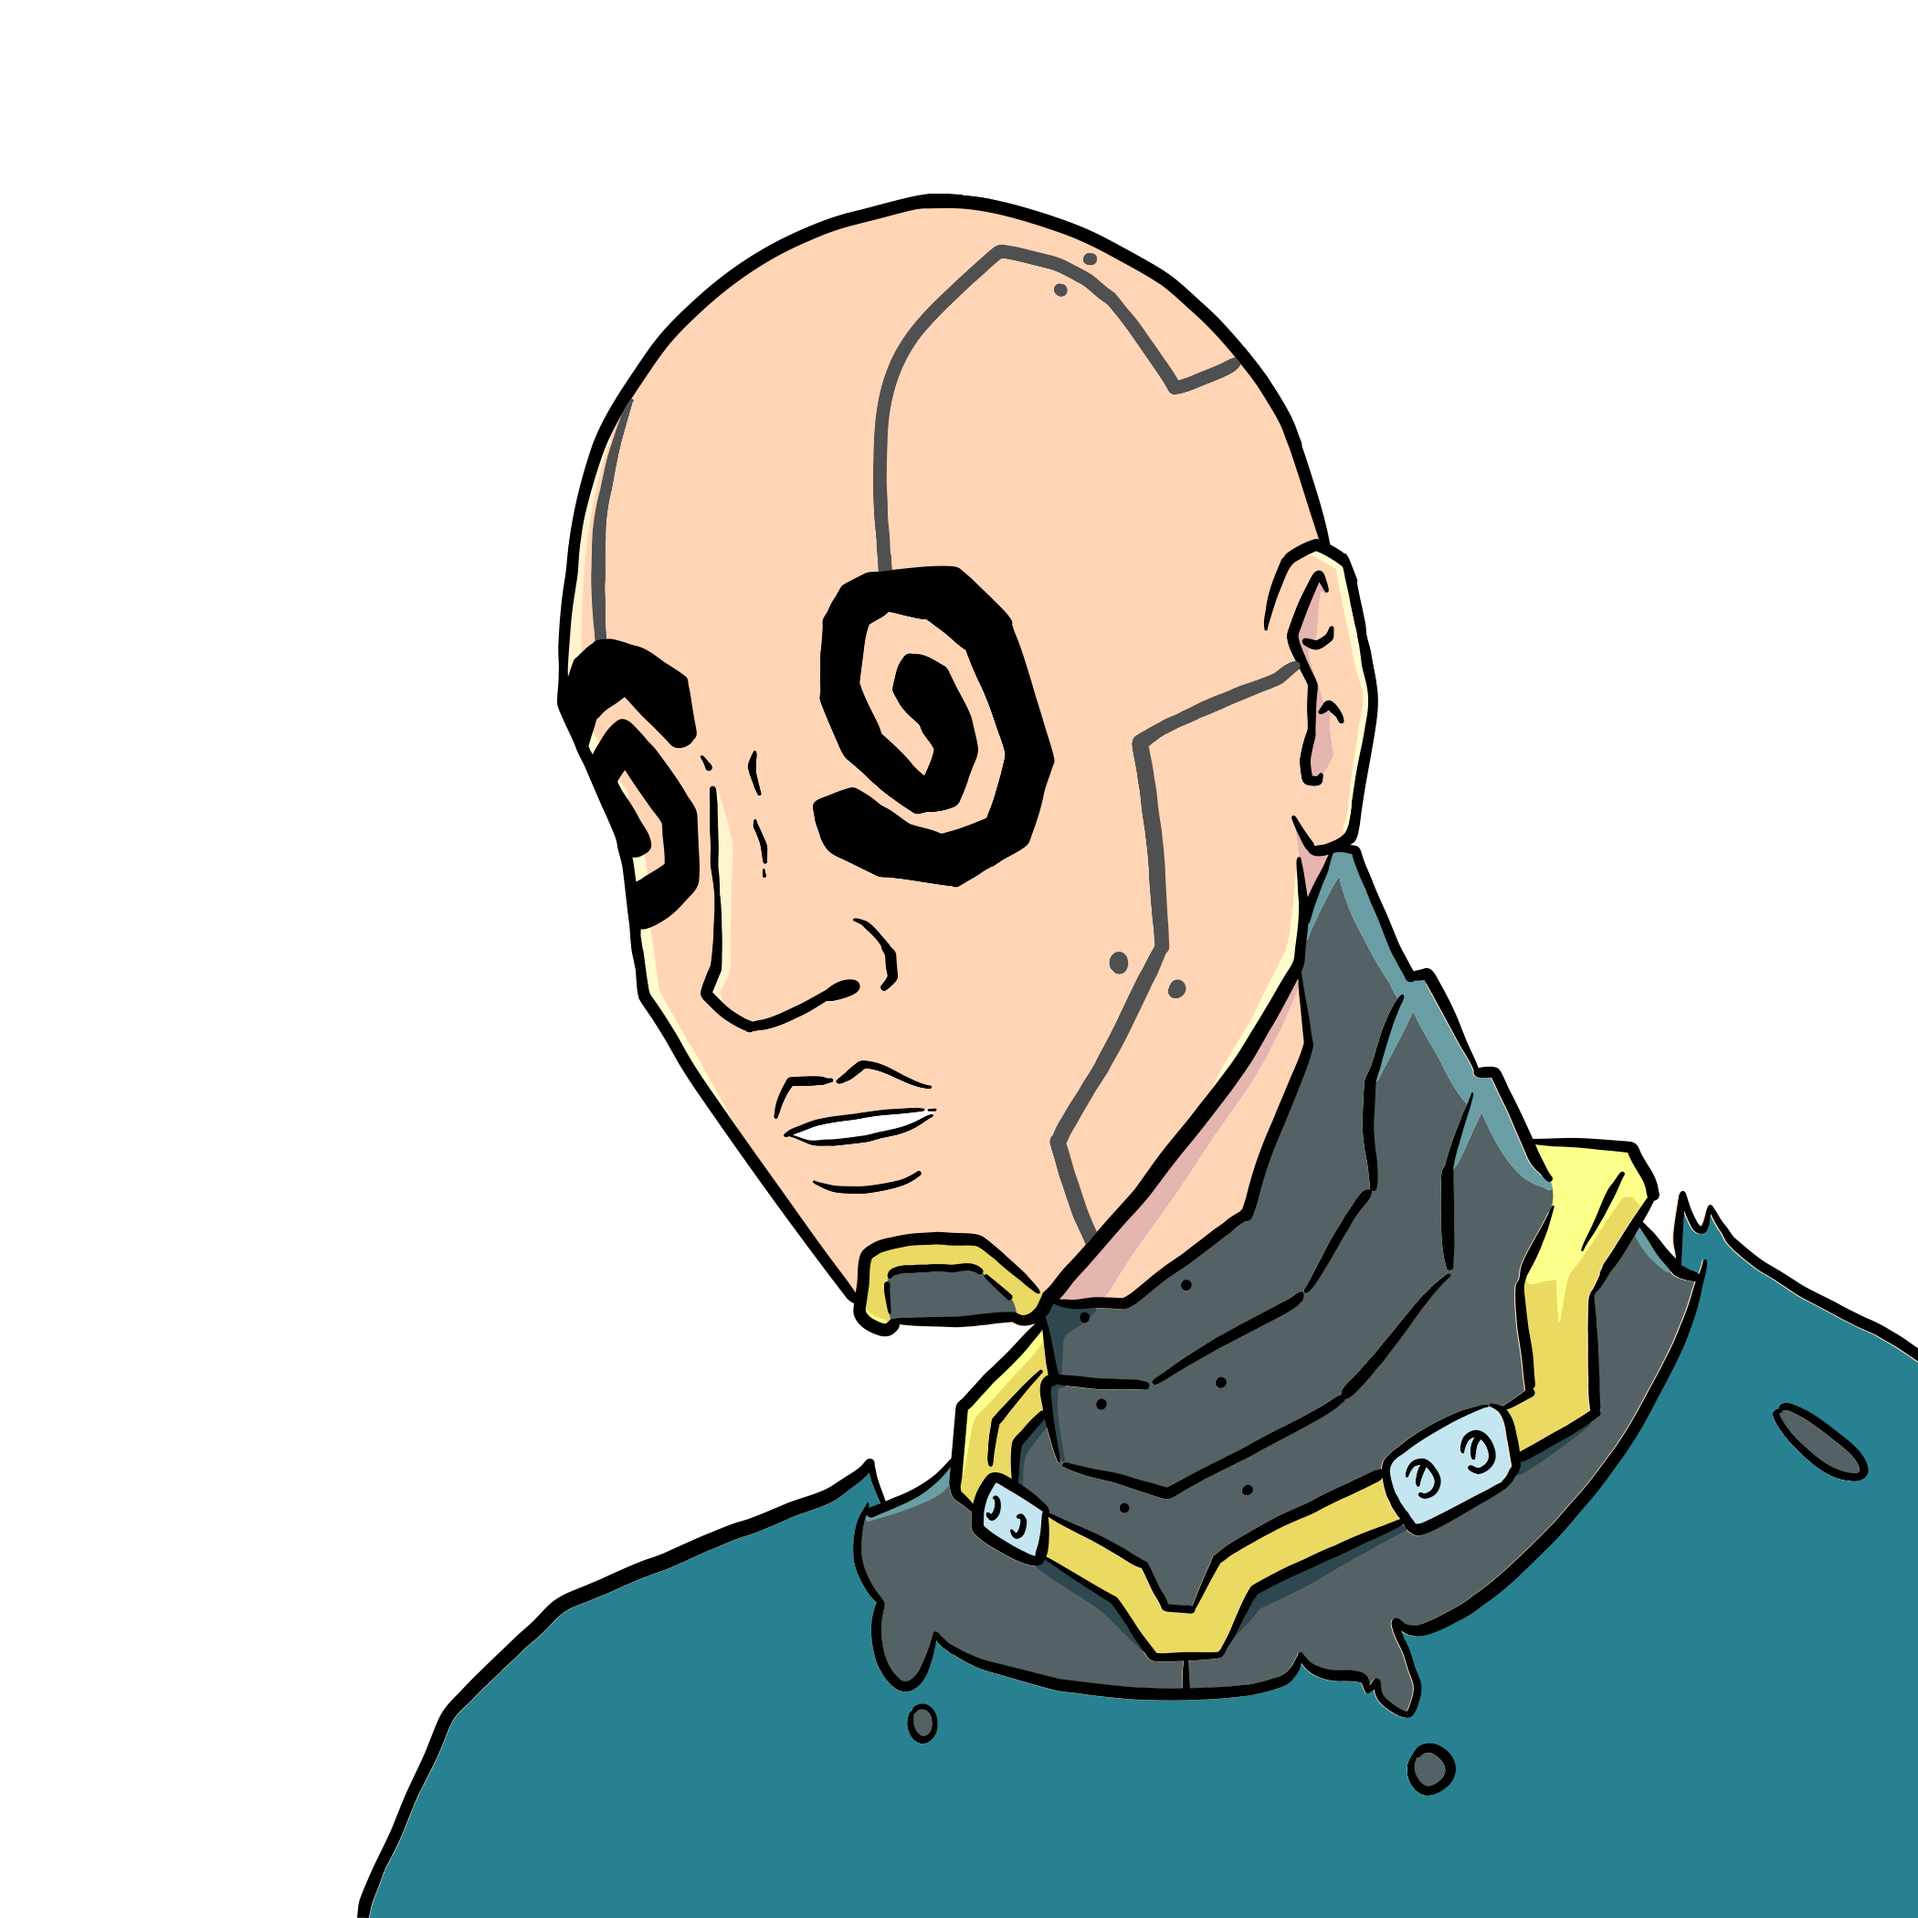
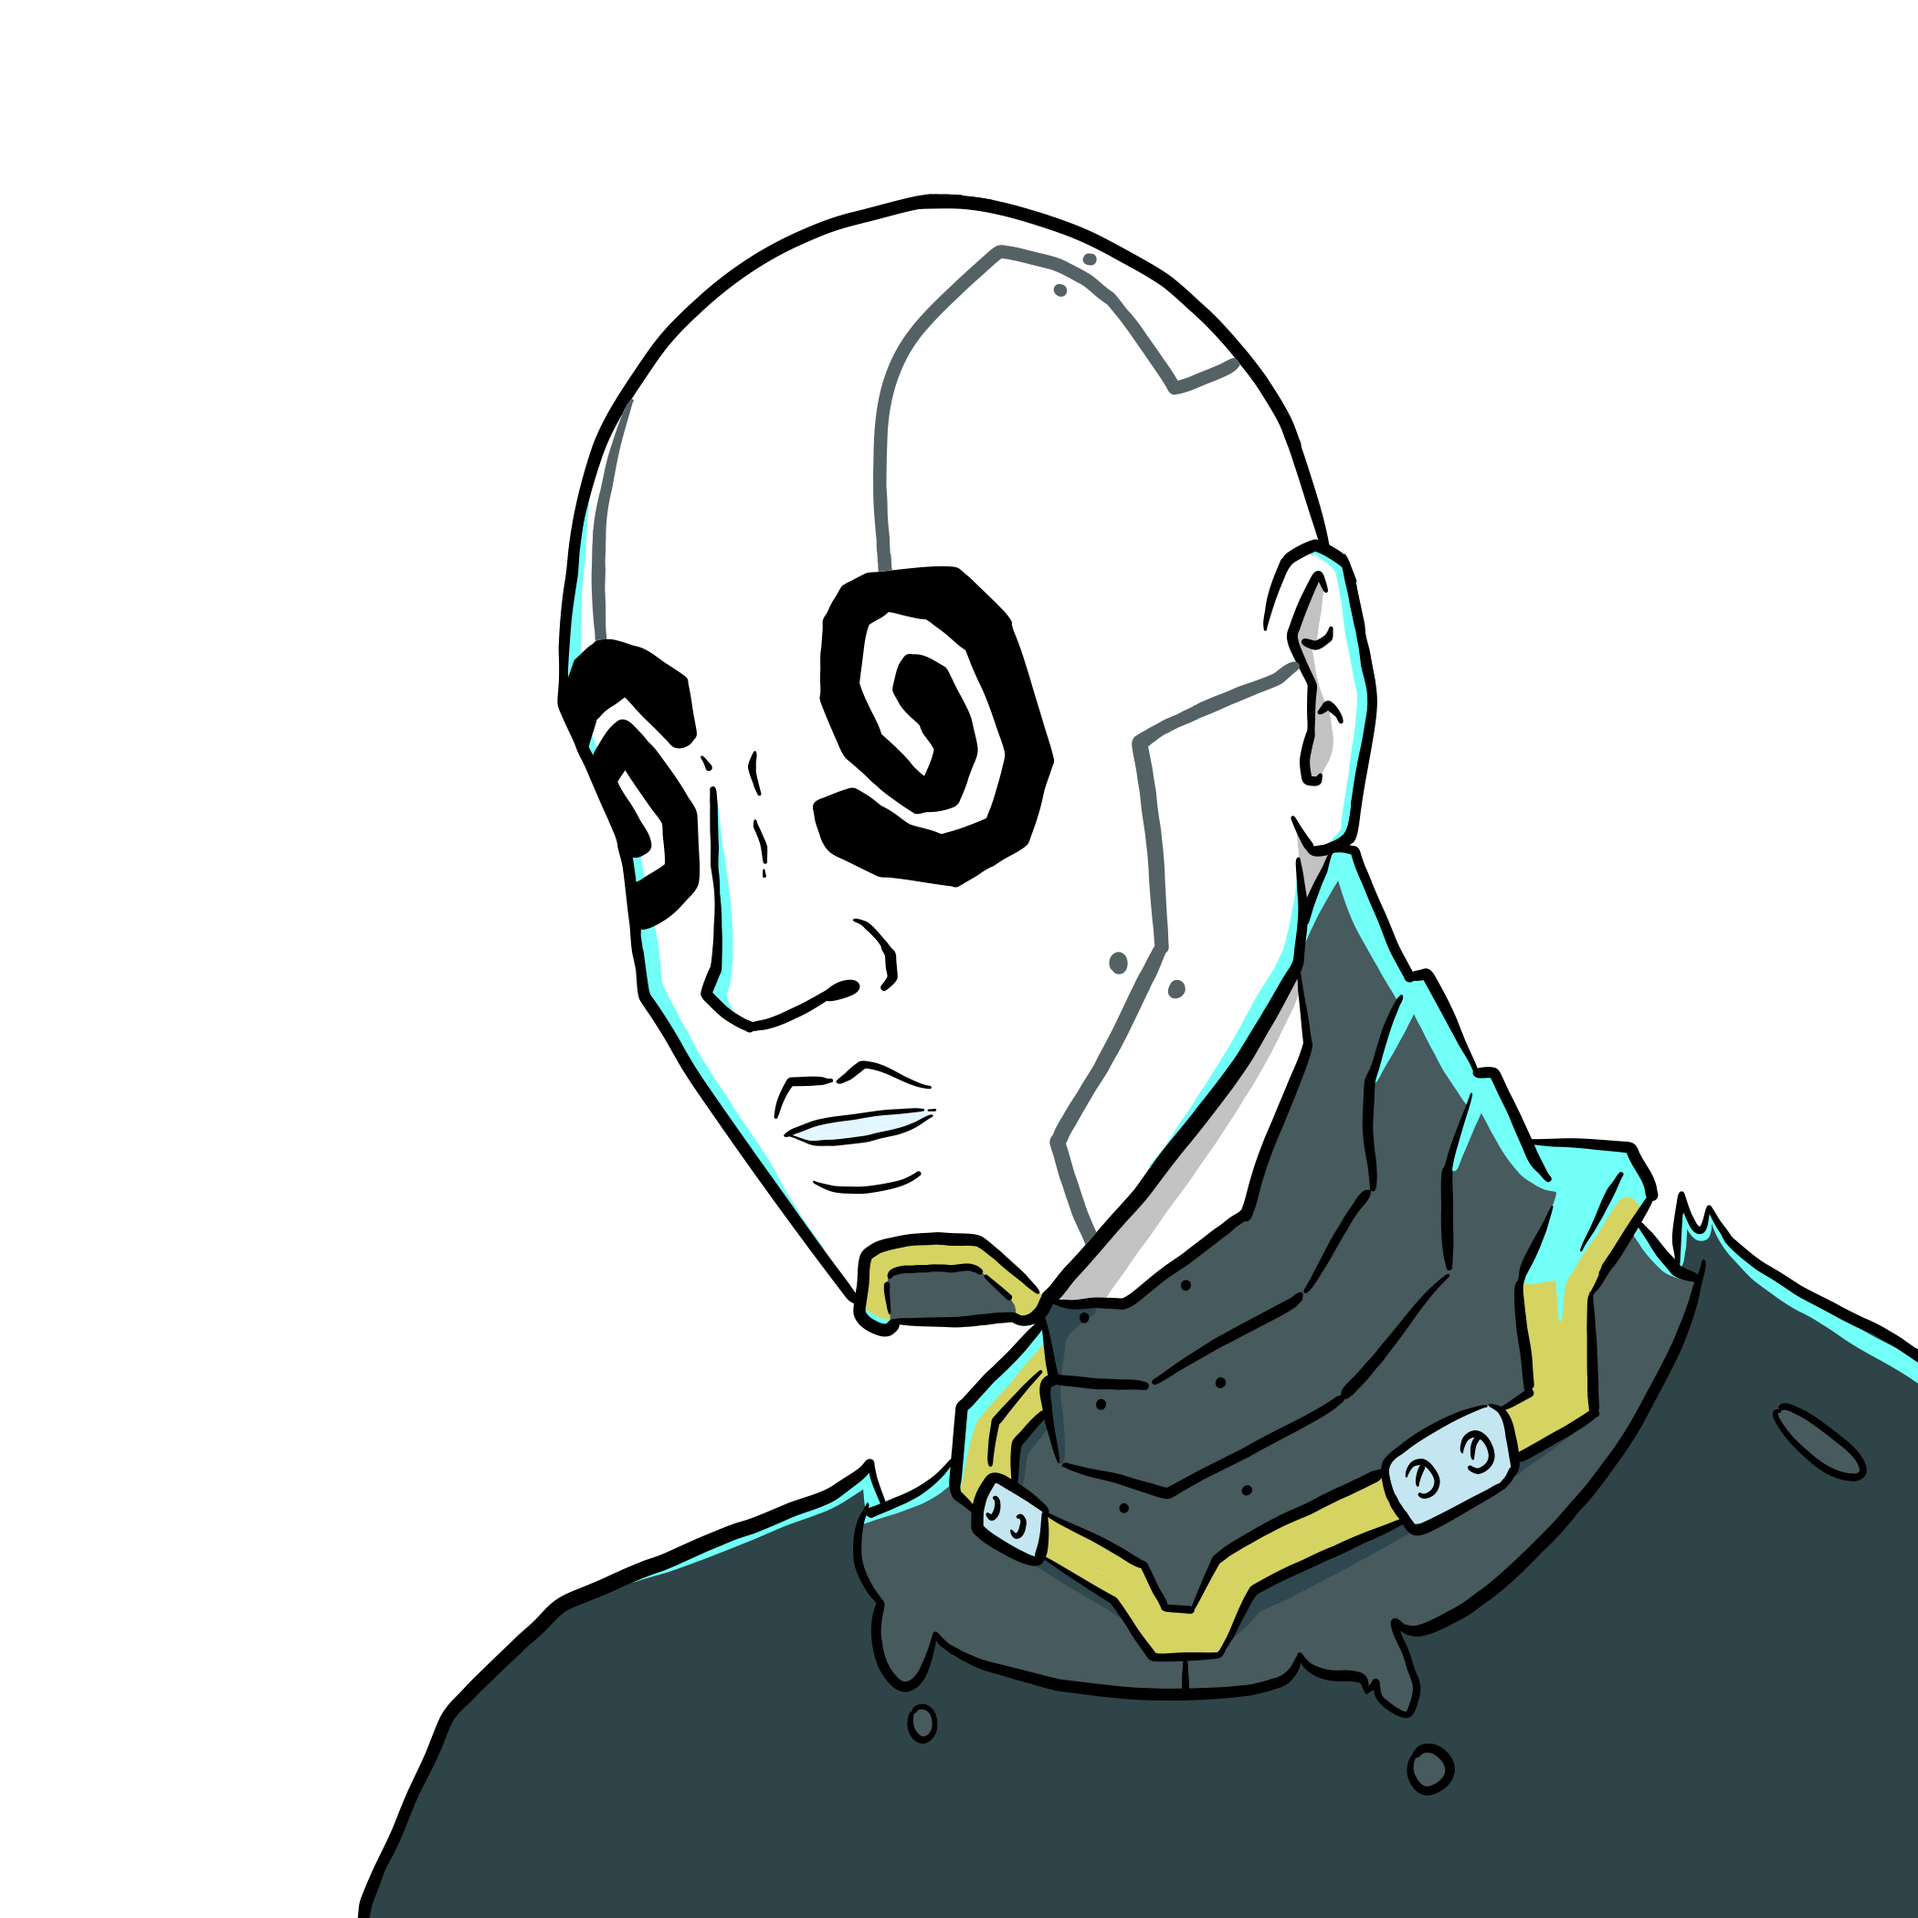
color pallete changes

diff --git a/client/utils/variablesConfig.js b/client/utils/variablesConfig.js
@@ -57,53 +57,127 @@ const config = {
     ],
   },
   colorOptions: {
+    colorOptions0: [
+      "#E6DFF8", // Very light (mostly white) violet
+      "#D3BFF1", // Very light desaturated violet
+      "#C0A0EA", // Light muted violet
+      "#AE80E3", // Soft violet
+      "#9B60DC", // Moderate violet
+      "#8840D5", // Medium violet
+      "#7620CE", // Vivid violet
+      "#6401C7", // Strong violet
+      "#5701AC", // Deep violet
+      "#7A00FC", // Fully saturated bright violet
+    ],
     colorOptions1: [
-      "#7a00fc", // Bright Violet
-      "#00dada", // Neon Turquoise
-      "#ff4066", // Neon Carmine Red
-      "#ff4500", // Orange Red
-      "#00f2ff", // Bright Cyan
-      "#FCEE0C", // Aureolin
-      "#800080", // Purple
-      "#6a74ff", // Bright Independence Blue
-      "#ff007f", // Neon Fuchsia
-      "#c05bb6"  // Bright Purple
+      "#E1F0FF", // Very light metallic blue
+      "#C4E1FF", // Light metallic blue
+      "#A7D2FF", // Softer metallic blue
+      "#8AC3FF", // Soft metallic blue
+      "#6DB4FF", // Moderate metallic blue
+      "#509FFF", // Brighter metallic blue
+      "#3390FF", // Bright metallic blue
+      "#1A81FF", // Strong metallic blue
+      "#0072FF", // Deep metallic blue
+      "#007ACC", // Fully saturated bright metallic blue
     ],
     colorOptions2: [
-      "#00eaff", // Bright Cyan
-      "#ff1493", // Deep Pink
-      "#4cFF00", // Neon Green
-      "#14ffec", // Neon Cyan
-      "#00bdbd", // Bright Cyan
-      "#32cd32", // Lime Green
-      "#007acc", // Bright Metallic Blue
-      "#6200ff", // Neon Indigo
-      "#2a8eff", // Bright Blue
-      "#bb00ff"  // Bright Purple
-  ],
-  colorOptions3: [
-      "#a0ffec", // Light Blue Green
-      "#b100ff", // Neon Purple
-      "#00a6a6", // Bright Teal
-      "#5f617a", // Bright Shadow Blue
-      "#00ffea", // Bright Skobeloff Green
-      "#5578ff", // Neon Stormy Blue
-      "#00ff00", // Neon Green
-      "#ff2055", // Bright Red
-      "#e0e1e2", // Bright Silver
-      "#003cff"  // Neon Blue
-  ],
-  colorOptions4: [
-      "##ff1111", // Spicy Red
-      "#7072ff", // Neon Periwinkle
-      "#add8e6", // Light Blue
-      "#00ffff", // Bright Aqua
-      "#ff00ff", // Magenta
-      "#7200ff", // Neon Purple
-      "#db00ff", // Neon Violet
-      "#ba55d3", // Medium Orchid
-      "#ff69b4"  // Hot Pink 
-  ],
+      "#FFD6DE", // Very light red
+      "#FFADC1", // Light red
+      "#FF85A5", // Soft red
+      "#FF5C88", // Moderate red
+      "#FF336B", // Bright red
+      "#FF0A4E", // Strong red
+      "#E60042", // Vivid red
+      "#CC0036", // Deep red
+      "#B2002A", // Darker red
+      "#FF2055", // Fully saturated bright red
+    ],
+    colorOptions3: [
+      "#FFD6FF", // Very light magenta
+      "#FFADFF", // Light magenta
+      "#FF85FF", // Softer magenta
+      "#FF5CFF", // Soft magenta
+      "#FF33FF", // Moderate magenta
+      "#FF0AFF", // Bright magenta
+      "#E600E6", // Strong magenta
+      "#CC00CC", // Vivid magenta
+      "#B200B2", // Deep magenta
+      "#FF00FF", // Fully saturated magenta
+    ],
+    colorOptions4: [
+      "#D6FAFF", // Very light cyan
+      "#ADF4FF", // Light cyan
+      "#85EEFF", // Softer cyan
+      "#5CE8FF", // Soft cyan
+      "#33E2FF", // Moderate cyan
+      "#0ADCFF", // Bright cyan
+      "#00D6F2", // Strong cyan
+      "#00C2D6", // Vivid cyan
+      "#00ADBA", // Deep cyan
+      "#00F2FF", // Fully saturated bright cyan
+    ],
+    colorOptions5: [
+      "#E1FFD6", // Very light lime green
+      "#C4FFAD", // Light lime green
+      "#A7FF85", // Softer lime green
+      "#8AFF5C", // Soft lime green
+      "#6DFF33", // Moderate lime green
+      "#50FF0A", // Bright lime green
+      "#40E600", // Strong lime green
+      "#36CC00", // Vivid lime green
+      "#32B200", // Deep lime green
+      "#32CD32", // Fully saturated lime green
+    ],
+    colorOptions6: [
+      "#F7F7F7", // Very light silver
+      "#F0F0F0", // Light silver
+      "#E9E9E9", // Softer silver
+      "#E2E2E2", // Soft silver
+      "#DBDBDB", // Moderate silver
+      "#D4D4D4", // Bright silver
+      "#CDCDCD", // Strong silver
+      "#C6C6C6", // Vivid silver
+      "#BFBFBF", // Deep silver
+      "#E0E1E2", // Fully saturated bright silver
+    ],
+    colorOptions7: [
+      "#FFE1F2", // Very light hot pink
+      "#FFC4E5", // Light hot pink
+      "#FFA7D8", // Softer hot pink
+      "#FF8ACB", // Soft hot pink
+      "#FF6DBE", // Moderate hot pink
+      "#FF50B1", // Bright hot pink
+      "#FF3393", // Strong hot pink
+      "#FF1A76", // Vivid hot pink
+      "#FF0059", // Deep hot pink
+      "#FF69B4", // Fully saturated hot pink
+    ],
+    colorOptions8: [
+      "#FFFAD6", // Very light aureolin
+      "#FFF5AD", // Light aureolin
+      "#FFF085", // Softer aureolin
+      "#FFEB5C", // Soft aureolin
+      "#FFE633", // Moderate aureolin
+      "#FFE20A", // Bright aureolin
+      "#E6CB00", // Strong aureolin
+      "#CCB400", // Vivid aureolin
+      "#B29D00", // Deep aureolin
+      "#FCEE0C", // Fully saturated aureolin
+    ],
+    colorOptions9: [
+      "#D6FEFF", // Very light neon cyan
+      "#ADFDFF", // Light neon cyan
+      "#85FCFF", // Softer neon cyan
+      "#5CFBFF", // Soft neon cyan
+      "#33FAFF", // Moderate neon cyan
+      "#0AF9FF", // Bright neon cyan
+      "#00E2F2", // Strong neon cyan
+      "#00CAD6", // Vivid neon cyan
+      "#00B2BA", // Deep neon cyan
+      "#14FFEC", // Fully saturated neon cyan
+    ],
+
   characterColorOptions1: [
     '#80dcdc', // Light Cyan
     '#aaffff', // Light Neon Cyan

diff --git a/client/utils/imageProcessing.js b/client/utils/imageProcessing.js
@@ -42,9 +42,6 @@ export const composeIMG = async (paddedEntropy,  entityGeneration) => {
 };
 
 const variablesLayer = async (paddedEntropy, entityGeneration) => {
-  console.log(
-    `variablesLayer - entityEntropy: ${paddedEntropy}, entityGeneration: ${entityGeneration}`
-  );
   const entropy = paddedEntropy ? paddedEntropy.toString() : '';
   const generation = entityGeneration ? entityGeneration.toString() : '';
 
@@ -56,26 +53,32 @@ const variablesLayer = async (paddedEntropy, entityGeneration) => {
   console.log(`Entropy: ${entropy}`);
   console.log(`Entropy length: ${entropy.length}`);
 
+  const color1ArrayIndex = parseInt(entropy[5]); 
+  const color2ArrayIndex = parseInt(entropy[4]);
+  const color3ArrayIndex = parseInt(entropy[3]); 
+  const color4ArrayIndex = parseInt(entropy[2]); 
+ console.log('color1ArrayIndex:', color1ArrayIndex, 'color2ArrayIndex:', color2ArrayIndex, 'color3ArrayIndex:', color3ArrayIndex, 'color4ArrayIndex:', color4ArrayIndex)
   const color1 =
-    varConfig.colorOptions.colorOptions1[
-      parseInt(entropy[entropy.length - 1]) % varConfig.colorOptions.colorOptions1.length
-    ];
-  const color2 =
-    varConfig.colorOptions.colorOptions2[
-      parseInt(entropy[entropy.length - 4]) % varConfig.colorOptions.colorOptions2.length
-    ];
-  const color3 =
-    varConfig.colorOptions.colorOptions3[
-      parseInt(entropy[entropy.length - 2]) % varConfig.colorOptions.colorOptions3.length
-    ];
-  const color4 =
-    varConfig.colorOptions.colorOptions4[
-      parseInt(entropy[entropy.length - 3]) % varConfig.colorOptions.colorOptions4.length
-    ];
+  varConfig.colorOptions[`colorOptions${color1ArrayIndex}`][
+    parseInt(entropy[5]) % varConfig.colorOptions[`colorOptions${color1ArrayIndex}`].length
+  ];
+const color2 =
+  varConfig.colorOptions[`colorOptions${color2ArrayIndex}`][
+    parseInt(entropy[4]) % varConfig.colorOptions[`colorOptions${color2ArrayIndex}`].length
+  ];
+const color3 =
+  varConfig.colorOptions[`colorOptions${color3ArrayIndex}`][
+    parseInt(entropy[3]) % varConfig.colorOptions[`colorOptions${color3ArrayIndex}`].length
+  ];
+const color4 =
+  varConfig.colorOptions[`colorOptions${color4ArrayIndex}`][
+    parseInt(entropy[2]) % varConfig.colorOptions[`colorOptions${color4ArrayIndex}`].length
+  ];
 
   console.log(
     `color1: ${color1}, color2: ${color2}, color3: ${color3}, color4: ${color4}`
   );
+
 
   let varImage1 = await tintVariables(
     path.join(

diff --git a/client/components/common/EntityCard/index.js b/client/components/common/EntityCard/index.js
@@ -1,7 +1,6 @@
 import React from 'react';
 import Image from 'next/image';
 import classNames from 'classnames';
-
 import orangeBorder from '@/public/images/orangeborder.png';
 import blueBorder from '@/public/images/border.svg';
 import { calculateEntityAttributes } from '@/utils/utils';
@@ -19,7 +18,7 @@ export const EntityCard = ({
   const calculateUri = (paddedEntropy, generation) => {
     return `${paddedEntropy}_${generation}`;
   };
-  const uri = calculateUri(entropy, 1);
+  const uri = calculateUri(entropy, 3);
 
   const { role, forgePotential, performanceFactor, nukeFactor } =
   calculateEntityAttributes(paddedEntropy);

diff --git a/client/pages/api/generate-image.js b/client/pages/api/generate-image.js
@@ -12,7 +12,7 @@ async function startProcessing() {
         new JsonRpcProvider(contractsConfig.infuraRPCURL)
     );
     console.log('starting fetch');
-    const entityGeneration = 1;
+    const entityGeneration = 3;
         for (let slotIndex = 0; slotIndex < 770; slotIndex++) {
             for (let numberIndex = 0; numberIndex < 13; numberIndex++) {
                 try {
